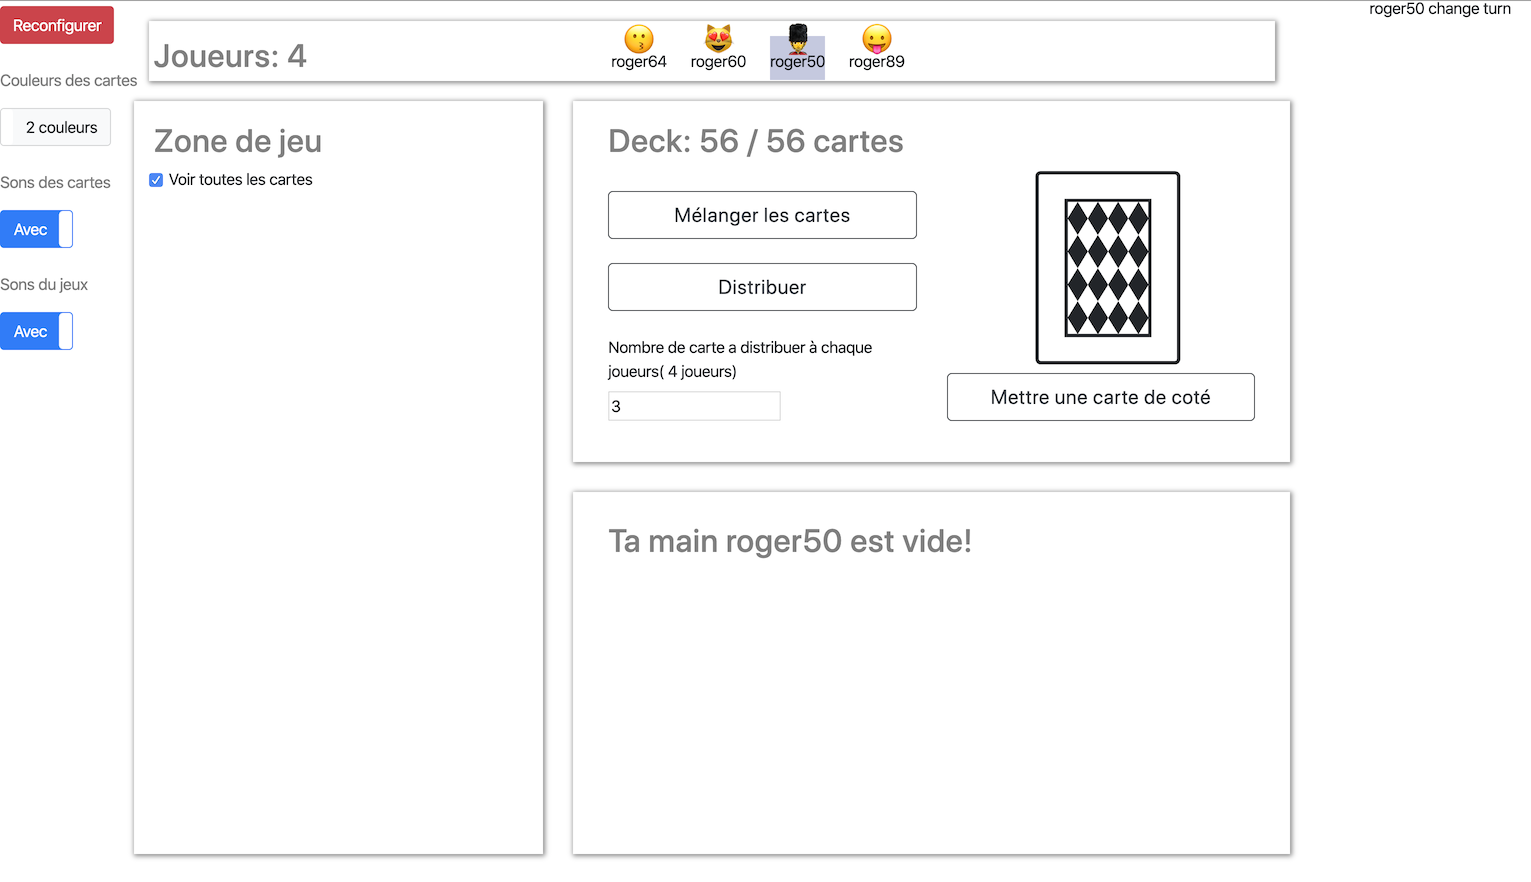
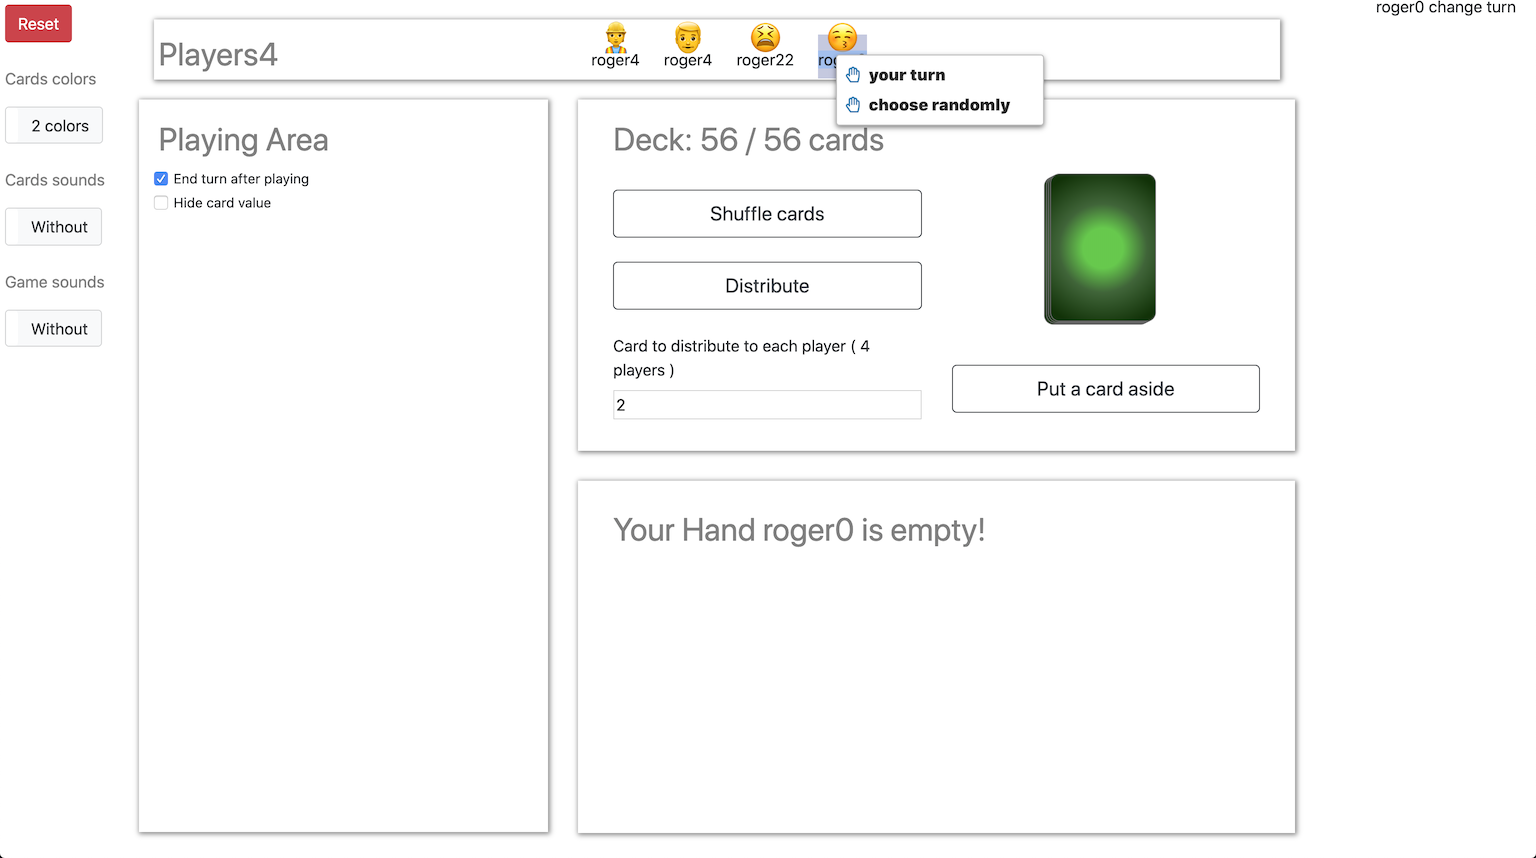
Update screenshots

Changed region(s): [[0.0, 0.0, 0.8289, 1.0], [0.614, 0.1818, 0.8289, 0.4848], [0.8903, 0.0, 0.9824, 0.0303]]

diff --git a/README.md b/README.md
@@ -26,7 +26,7 @@ Current supported Languages: English, French
 - Put a card aside for game as "oh hell"
 - Take the card put aside for game as "yaniv"
 - Distribute the whole deck or a specific number of cards among all players 
-- See How many cards each player got
+- See how many cards each player got
 - Rearrange cards in your hand, sort them, shuffle them! you name it! 
 - See who's turn is and change it if needed (choose a specific player or random)
 - Draw a card from the deck
@@ -36,10 +36,10 @@ Current supported Languages: English, French
 - See who played a card
 - Clear the playing area
 - Option to claim trick and see who won tricks
-- Option to Exchange card : Hide values, put all cards on the table and ask someone to pick one
+- Option to exchange card : Hide values, put all cards on the table and ask someone to pick one
 - Option to block players actions when it's not there turn (to prevent chaos =) )
 - Option to end turn after playing a card
-- Option to prevent to block retrieving card from playing area (game with trick don't need it)
+- Option to block card retrieving from playing area (game with trick don't need it)
 - Option to display 4 colors for your cards
 - Option to play sound for a more realistic party
 - Option for the number of deck to play with
@@ -89,7 +89,6 @@ Current supported Languages: English, French
 | Log actions                           |              |                 | OK         |             |
 | ------------ TO DEVELOP ------------  |              |                 |            |             |
 | Trump cards (atouts)                  |              |                 |            | **NEED**    |
-| Draw a card on the playing area       |              |                 | **NEED**   |             |
 | Put old cards in discard pile         |              |                 | OPTIM      |             |
 | Shuffle the discard pile              |              |                 | **NEED**   |             |
 | Random first player                   | OPTIONNAL    | OPTIONNAL       | OPTIONNAL  |             |
@@ -101,13 +100,13 @@ Current supported Languages: English, French
 D = DONE: you can play easily to this game  
 N = NOT OPTIMAL: you can play but it's not optimal features are missing  
 W = WIP:  you can't currently play important features are missing  
-T = TODO: Most of the minimum need feature are missing  
+T = TODO: Most of the minimum needed features to play are missing  
  
-![Colors options](misc/cards_color.png)
-![Claim trick](misc/claim_trick.png)
-![Reorder](misc/reorder.png)
 ![Room creation](misc/room_creation.png)
 ![Distribute amount of cards](misc/distribute_amout_of_cards.png)
+![Reorder](misc/reorder.png)
+![Claim trick](misc/claim_trick.png)
+![Colors options](misc/cards_color.png)
 ![Server](misc/server.png)
 
 
